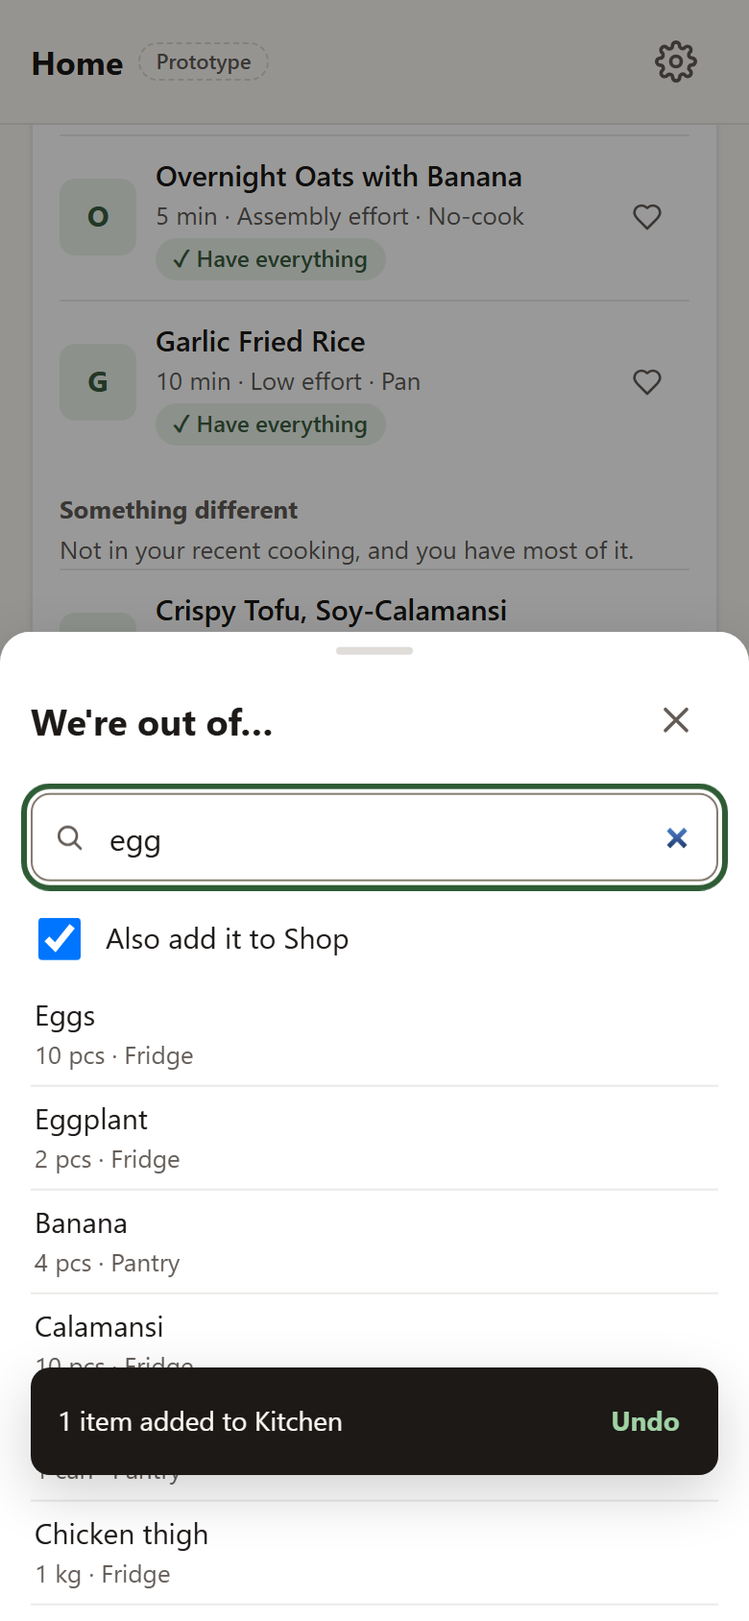
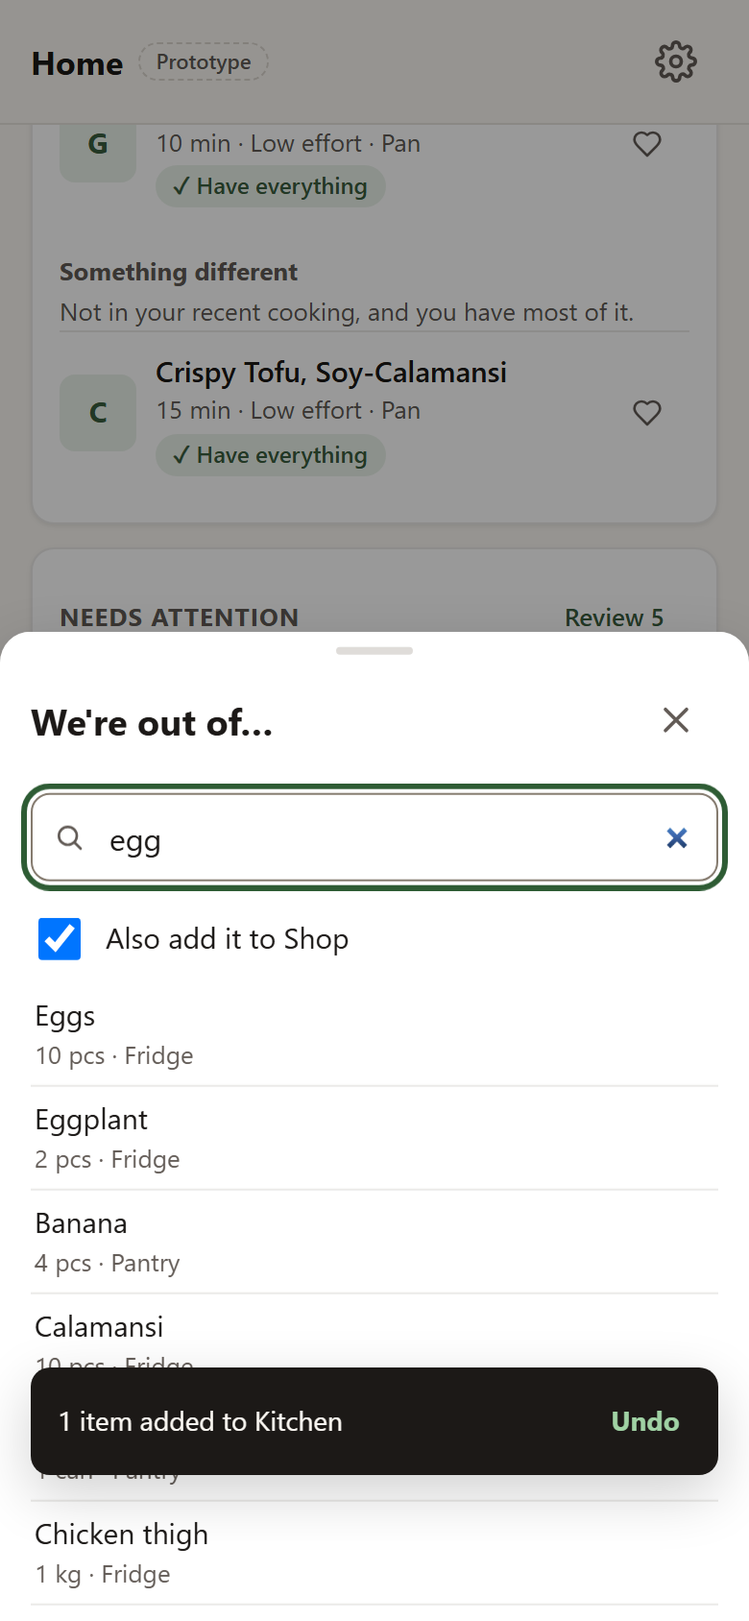
fix(ux-proto): copy app semantics for Keep, attention tiers, batch Done, Made it, matcher
Semantic re-check must-fixes:
- Keep never makes expired food available: haveLot() -> lotAvailable() ignores kept,
  as pantryLotAvailable() ignores keptOn (Mung Bean Stew still needs a kept Pechay)
- Attention lists follow collectAttentionItems(): Expired -> Keep/Remove,
  Check -> Still good/Toss, Use soon -> no keep button and never hidden;
  sample Check item (Radish, fridge estimate passed) with "Check Radish first"
- Prep-day Done shows the take-out list and deducts like I cooked this
  (completePlannedBatch -> _doMarkCooked), with Undo

Should-fixes: Made it on an existing batch says "Replaces your 3 cups (2d left)"
(D-074 replace-in-place); app matcher pasted verbatim with an empty alias table;
deduction per ingredient line; "2 bunches". AUDIT §2/§3/§5/§8/§9 corrected, new §10
records the Soy-Calamansi sauce / Soy sauce false positive as an app finding.
Self-test: 24/24 jobs at 390 and 360, light and dark.

diff --git a/prototypes/ux-consolidation/selftest.js b/prototypes/ux-consolidation/selftest.js
@@ -162,7 +162,11 @@ function measure() {
       await expectText(page.locator('#prep-count'), /^1 of \d+ steps done$/);
       await snap('prep-day'); await shot('proto-05-prep-day');
       await btn(/^Done: \d+ portions to Kitchen/, false).first().click();
-      await expectText(page.locator('#toast-msg'), /portions in Kitchen/);
+      await expectText(sheet, /Its ingredients are deducted from what you have on hand/);
+      await expectText(sheet, /Mung beans: use 250 g · 250 g left/);
+      await snap('batch-done-sheet'); await shot('proto-23-batch-done');
+      await btn('Prepped — add to Kitchen').click();
+      await expectText(page.locator('#toast-msg'), /portions in Kitchen · \d+ reduced/);
       await closeSheet();
     });
 
@@ -370,7 +374,7 @@ function measure() {
       await btn(/expired ·/, false).click();
       await expectText(page.locator('main'), /Pechay[\s\S]*past its printed use-by/);
       await btn('Keep Pechay').click();
-      await expectText(page.locator('#toast-msg'), /Pechay kept for today · date unchanged/);
+      await expectText(page.locator('#toast-msg'), /Pechay kept for today · still not counted as stock/);
       if (await page.locator('main .row', { hasText: 'Pechay' }).count()) throw new Error('kept item still in review');
       await btn('Show all').click();
       await btn(/^Ingredients/, false).click();
@@ -397,6 +401,87 @@ function measure() {
       await page.getByRole('button', { name: 'Settings, sync and backups' }).click();
       await expectText(sheet, /Clear all data/);
       await closeSheet();
+    });
+
+    // ── Repros for the semantic re-check (must-fix 1–3) and should-fixes ──
+    await job('20 Keep never makes expired food available (Mung Bean Stew still needs Pechay)', 3, async () => {
+      await nav('Kitchen').click();
+      await btn(/expired ·/, false).click();
+      await btn('Keep Pechay').click();
+      await nav('Cook').click(); await btn('All recipes').click();
+      await expectText(page.locator('#recipe-browser .row', { hasText: 'Mung Bean Stew' }), /Need \d: [^…]*Pechay/); // Garlic may also be out after job 16
+      await page.locator('#recipe-browser').getByRole('button', { name: /^Mung Bean Stew/ }).click();
+      await expectText(sheet, /You need: [^.]*Pechay/);
+      await closeSheet();
+      await nav('Shop').click();
+      await expectText(page.locator('main'), /Pechay/);
+      await nav('Kitchen').click(); await btn('Show all').click();
+    });
+
+    await job('21 Attention tiers: Use soon has no Still good; Check has Still good', 2, async () => {
+      await nav('Kitchen').click();
+      if (await btn('Show all').count()) await btn('Show all').click();
+      await btn(/to check/, false).click();
+      const chicken = page.locator('main .row', { hasText: 'Chicken thigh' });
+      await expectText(chicken, /1d left/);
+      if (await chicken.getByRole('button', { name: /still good|^Keep/i }).count()) throw new Error('use-soon row offers Keep/Still good');
+      const radish = page.locator('main .row', { hasText: 'Radish' });
+      await expectText(radish, /estimated window passed — check it/);
+      if (await radish.getByRole('button', { name: 'Keep Radish' }).count()) throw new Error('check row says Keep');
+      await snap('kitchen-review-tiers'); await shot('proto-24-attention-tiers');
+      await nav('Cook').click(); await btn('All recipes').click();
+      await expectText(page.locator('#recipe-browser .row', { hasText: 'Pork & Tamarind Sour Soup' }), /Check Radish first/);
+      await nav('Kitchen').click(); // the review filter is still on
+      await btn('Radish is still good').click();
+      await expectText(page.locator('#toast-msg'), /Radish marked still good for today · date unchanged/);
+      if (await page.locator('main .row', { hasText: 'Radish' }).count()) throw new Error('still-good item still in review');
+      if (!(await page.locator('main .row', { hasText: 'Chicken thigh' }).count())) throw new Error('use-soon row disappeared');
+      await nav('Cook').click(); await btn('All recipes').click();
+      const soup = await page.locator('#recipe-browser .row', { hasText: 'Pork & Tamarind Sour Soup' }).textContent();
+      if (/Check Radish first/.test(soup)) throw new Error('check note survived Still good');
+      await page.locator('#toast-undo').click();
+      await nav('Kitchen').click(); await btn('Show all').click();
+    });
+
+    await job('22 Meal prep Done deducts like I cooked this (and Undo restores)', 3, async () => {
+      await nav('Cook').click(); await btn('Meal prep').click();
+      await btn('Start prep day').click();
+      const idx = await page.evaluate(() => S.plan.findIndex(b => b.rid === 'r5'));
+      await sheet.locator('[data-act="batch-done"]').nth(idx).click();
+      await expectText(sheet, /Rice Cooker Chicken & Rice — \d+ servings goes into your Kitchen/);
+      await expectText(sheet, /Chicken thigh: use [\d.½¼¾⅓⅔]+ kg · [\d.½¼¾⅓⅔]+ kg left/);
+      await expectText(sheet, /Staples are never deducted: Rice/);
+      await btn('Prepped — add to Kitchen').click();
+      await expectText(page.locator('#toast-msg'), /Rice Cooker Chicken & Rice: \d+ portions in Kitchen · 1 reduced/);
+      await closeSheet();
+      await nav('Kitchen').click();
+      await page.getByLabel('Search kitchen').fill('chicken thigh');
+      const after = await page.locator('main .row', { hasText: 'Chicken thigh' }).textContent();
+      if (/\b1 kg/.test(after)) throw new Error('chicken not deducted: ' + after.replace(/\s+/g, ' '));
+      await page.locator('#toast-undo').click();
+      await expectText(page.locator('main'), /Chicken thigh\s*1 kg/);
+      await page.getByLabel('Search kitchen').fill('');
+    });
+
+    await job('23 Made it says what happens to the existing batch', 3, async () => {
+      await nav('Cook').click(); await btn('Sauces & prep').click();
+      await btn('Prep-aheads ↓ (cooked rice, garlic…)').click();
+      await btn('Made Cooked rice').click();
+      await expectText(page.locator('#replace-note'), /Replaces your [23] cups \(2d left\)/);
+      await snap('made-replace'); await shot('proto-25-made-replace');
+      await btn('Replace batch').click();
+      await expectText(page.locator('#toast-msg'), /Replaced Cooked rice — [23] cups/);
+      await page.locator('#toast-undo').click();
+      await btn('Made a batch of Soy-Calamansi').click();
+      await expectText(page.locator('#replace-note'), /Replaces your 4 portions \(5d left\)/);
+      await closeSheet();
+    });
+
+    await job('24 Matcher is the app\'s, verbatim (incl. its Soy-Calamansi false positive)', 0, async () => {
+      const got = await page.evaluate(() => [['Garlic cloves', 'Garlic'], ['Onion, chopped', 'Onion'], ['Bay leaves', 'Bay leaf'], ['Rice', 'Sticky rice'], ['Soy-Calamansi sauce', 'Soy sauce'], ['Eggs', 'Egg noodles'], ['Rice', 'Rice vinegar']]
+        .map(([a, b]) => a + '|' + b + '=' + nameMatch(a, b)).join(' ') + ' ' + amtText(2, 'bunch') + '/' + amtText(1, 'bunches'));
+      const want = 'Garlic cloves|Garlic=true Onion, chopped|Onion=true Bay leaves|Bay leaf=true Rice|Sticky rice=false Soy-Calamansi sauce|Soy sauce=true Eggs|Egg noodles=false Rice|Rice vinegar=false 2 bunches/1 bunch';
+      if (got !== want) throw new Error(got);
     });
 
     // Extra screens for measurement only.

diff --git a/prototypes/ux-consolidation/index.html b/prototypes/ux-consolidation/index.html
@@ -1006,7 +1006,7 @@ function renderKitchen() {
   let body = '';
   const match = x => !q || x.name.toLowerCase().includes(q);
   if (S.kfilter === 'soon') {
-    body = `<div class="card"><h3>Expired or use soon <button class="btn ghost sm more" data-act="kfilter" data-v="">Show all</button></h3>
+    body = `<div class="card"><h3>Needs attention <button class="btn ghost sm more" data-act="kfilter" data-v="">Show all</button></h3>
       <p class="row-meta" style="margin:0 0 4px">Keep (expired) and Still good (check it) hide an item until tomorrow. They never change its date, and expired food still never counts as stock.</p>
       ${att.map(attentionRow).join('') || '<div class="empty">Nothing needs attention today.</div>'}</div>`;
   } else if (q) {

diff --git a/prototypes/ux-consolidation/AUDIT.md b/prototypes/ux-consolidation/AUDIT.md
@@ -47,20 +47,21 @@ Other observations:
 ## 2. Everyday jobs: current app vs prototype
 
 Taps exclude typing. "Before" is measured or traced on `origin/main`. "After" is the prototype
-self-test (Playwright clicks by visible label, as a first-time user). All 19 scripted jobs (the 8 below,
+self-test (Playwright clicks by visible label, as a first-time user). All 24 scripted jobs (the 8 below,
 plus Flavor authoring, Favorites, method chips and filters, undo isolation, the serving scaler, Cook
-history, Remove expired, "Not anymore?", Keep, D-086 matching and the new homes) pass at 390×844 and
-360×780, in light and dark. Each run had 0 console errors, 0 network requests and no horizontal scroll.
-Full numbers are in §8; the data-semantics fixes from the second review are in §9.
+history, Remove expired, "Not anymore?", Keep, D-086 matching, the new homes, and five repros for the
+semantic re-check) pass at 390×844 and 360×780, in light and dark. Each run had 0 console errors,
+0 network requests and no horizontal scroll. Full numbers are in §8; the data-semantics fixes are in §9
+(second review) and §10 (semantic re-check).
 
 | Job | Current app (before) | Prototype (after) |
 |---|---|---|
 | What can I eat now | Home → **Use 1** (1 tap; first button 0.59 screens down, under the meal-prep flow card and banner) | Home → **Eat 1** (**1 tap**; first card, about 0.25 screens) |
 | Cook something quick | More → Recipes → scroll about 1 screen → Lowest effort → scroll 1.2-screen cards → no cook action. Logging it needs Plan → + Add meals → pick → close → Prep → Prepped → Fridge → confirm (**about 10 taps, 3+ screens**) | Cook (opens on Quick cook, can-make-now first) → recipe → **I cooked this** → Save (**4 taps, no scroll**). The sheet shows what it will take out of the kitchen, `markRecipeCooked()`-style: "Canned tuna: use 1 can · 1 can left". Staples are never deducted, and an untracked amount is never removed unless you tick it (§9) |
-| Plan a meal-prep batch | Plan → + Add meals → pick → close (4), then Prep tab → **Prepped → Fridge** per batch (+2 each, 3 tabs total) | Home's **Meal prep** card → + Add → pick → Done (**4**; 5 if you start from the Cook tab). The picker lists every recipe, with optional search, a **Low effort only** chip and **View** on each row (D-078). Then Start prep day → **Done: N portions to Kitchen** (+2). All on one screen, with a 1-2-3-4 progress strip, a live "N of M steps done" count and a "N to buy → Open Shop" link |
+| Plan a meal-prep batch | Plan → + Add meals → pick → close (4), then Prep tab → **Prepped → Fridge** per batch (+2 each, 3 tabs total) | Home's **Meal prep** card → + Add → pick → Done (**4**; 5 if you start from the Cook tab). The picker lists every recipe, with optional search, a **Low effort only** chip and **View** on each row (D-078). Then Start prep day → **Done: N portions to Kitchen** → **Prepped — add to Kitchen** (+3). Done asks once, like the app's `completePlannedBatch()` confirm, and shows the same take-out list as *I cooked this* ("Mung beans: use 250 g · 250 g left"); confirming deducts the ingredients and adds the portions to Ready food, with Undo. All on one screen, with a 1-2-3-4 progress strip, a live "N of M steps done" count and a "N to buy → Open Shop" link |
 | I just shopped | Shop → scroll past struck-through in-stock rows → tick each (1 + n). Unlisted purchases: Fridge → scroll 1.9 screens → Bulk add → type → Add (4) | Shop → tick each (**1 + n**; only items to buy are shown, with amounts and Price book costs). Unlisted: **Bought something else?**, which sits right under the add box at the top of Shop → type → Add to Kitchen (**3**). A tick can be undone from the toast, or later from the collapsed **Bought today** section, which reverses exactly what the tick did (D-057 receipt) |
 | We're out of X | Fridge → scroll → search → open → level/delete → Shop → Add Item → type → save (**about 7**, 2 tabs) | Kitchen (or Home) → **We're out of…** → type → tap item (**3**). Results rank whole-word matches first, then starts-with, then contains, so "egg" lists **Eggs** before Eggplant. It is marked out and added to Shop in one step (checkbox on by default), with Undo |
-| Make a sauce / prepped ingredient | More → Flavor Library → scroll → I made this → save (**4**). Prepped ingredients are **not possible** | Cook → Sauces & prep → **Made it** → Save to Kitchen (**4**). The same path works for prep-aheads (cooked rice, minced garlic, boiled eggs), which a **Prep-aheads ↓** link at the top of the screen jumps to. "Use by" is optional and typed by you; with no date, no "days left" chip is shown (D-074) |
+| Make a sauce / prepped ingredient | More → Flavor Library → scroll → I made this → save (**4**). Prepped ingredients are **not possible** | Cook → Sauces & prep → **Made it** → Save to Kitchen (**4**). The same path works for prep-aheads (cooked rice, minced garlic, boiled eggs), which a **Prep-aheads ↓** link at the top of the screen jumps to. "Use by" is optional and typed by you; with no date, no "days left" chip is shown (D-074). If you already have a batch, the sheet is titled "Replace … batch?", says **Replaces your 3 cups (2d left)** before you save, and the button reads **Replace batch** (D-074 replace-in-place, so old food never quietly looks fresh) |
 | Find a flavor | More → Flavor Library → search/filter (**3**) | Cook → type in the one search box, which searches recipes, sauces and ingredients (**1 + typing**), or tap a sauce chip on a ready-food row or recipe ("Goes well with") |
 | Shop without a plan | Shop → open "No plan? Fill the gaps" → tap a chip (**3**) | Shop → tap a chip (**2**; quick picks open automatically while the list is short, and no item appears in two roles). "Running low: Vinegar, Oats → Add" is a one-tap restock |
 | Add / edit / delete a flavor | More → Flavor Library → Add flavor → fill → Save (**4**) | Cook → Sauces & prep → **+ Add your own flavor** → fill → Save flavor (**4**). Edit and Delete sit in each flavor's sheet. Delete asks first, then gives Undo |
@@ -75,7 +76,7 @@ Full numbers are in §8; the data-semantics fixes from the second review are in 
 |---|---|
 | Home: greeting, Ready to eat | **Home** · Ready to eat (first card) |
 | Home: meal-prep flow card (Plan/Shop/Prep/Fridge) | **Home** · "Meal prep" mode card with a one-line status. The full flow lives in **Cook › Meal prep** |
-| Home: What needs attention? | **Home** · "Use soon" (2 items). Expired rows offer **Keep** or **Remove** (FEATURES, D-057); use-soon rows offer *Cook*. **Kitchen › Review** lists them all; use-soon rows there have **Still good**. Keep and Still good are the same-day `keptOn` acknowledgement (D-088): the item is hidden from alerts until tomorrow and its date is never rewritten. Kitchen keeps showing "Expired · Kept today" on the item itself |
+| Home: What needs attention? | **Home** · "Needs attention" (first 3) and **Kitchen › Review** (all), with the app's three tiers from `collectAttentionItems()` and the app's buttons (`check ? 'Still good' : 'Keep'`). **Expired** (printed use-by passed, or ready food past its fridge window): **Keep** / **Remove**. **Check** (a fridge perishable past its *estimate*, a passed best-before, or frozen food past its quality window): **Still good** / **Toss**. **Use soon**: no keep button at all, only *Cook* with a recipe that uses it; the app never hides a use-soon row, so neither does the prototype. Keep and Still good write the same-day `keptOn` (D-057, D-088): the row leaves the list until tomorrow and the date is never rewritten. **Keep never makes expired food usable**: `pantryLotAvailable()` ignores `keptOn`, so a kept expired lot still is not "have", is never suggested and is never offered in *I cooked this*; Kitchen shows "Expired · Kept today". Still good on a Check lot clears the recipe's "Check X first" note for today. Prepared stock is not in this list, as in the app |
 | Home: Record leftovers/takeout | **Home** quick action, plus **Kitchen** › Ready |
 | Home: My Favorites (`#home-favorites`) | Hearts on every recipe row, plus a **♥ Favorites** chip in **Cook** (Quick cook and All recipes). It shows only hearted recipes, with a count, and is ANDed with the method chip and Filters. Recipes' `#favorites-filter` checkbox maps to the same chip |
 | Home: Need ideas? (What should we eat / cook / can I do) | **Home** · "Or make something" (Instant / Quick / Meal prep, plus "You can make right now") |
@@ -144,7 +145,7 @@ Full numbers are in §8; the data-semantics fixes from the second review are in 
   4. **Prepared ingredients get a first-class home** next to sauces (Kitchen › Prepped). They are
      created from Cook › Sauces & prep › *Made it* and consumed by recipes ("✓ Cooked rice").
   5. **Home is a decision page, not a dashboard.** It has three blocks (Ready to eat → Or make
-     something → Use soon) and three quick actions (We're out of… · I just shopped · Leftovers). The
+     something → Needs attention) and three quick actions (We're out of… · I just shopped · Leftovers). The
      meal-prep flow card, Favorites, Need ideas and Cook History move off it (to Cook › Meal prep, the
      Cook ♥ Favorites chip, can-make-now sorting and Settings › Cook history).
 
@@ -164,7 +165,7 @@ never editing.
 - **Added:** Cook, Kitchen, the ⚙ header button and bottom navigation.
 - **Merged:** Plan + Prep + the Home flow card → Cook › Meal prep. "Based on your kitchen" strip +
   quick filters + Need ideas → can-make-now sorting in Cook and Home. Freshness banner + attention
-  card → Kitchen badge + Review bar + Home "Use soon". Prepared Flavors (two places) → Kitchen ›
+  card → Kitchen badge + Review bar + Home "Needs attention". Prepared Flavors (two places) → Kitchen ›
   Prepped.
 - **Demoted behind one tap:** By-day grid, week templates, AI Prep Brief, Stock health,
   Inventory-checked stamp, select mode, ingredient browser, print/copy/clear, prices, JSON
@@ -181,7 +182,7 @@ never editing.
 4. **Muscle memory and deep links.** `showTab('fridge'|'planner'|'prep'|'recipes')`, the notification click (`show-attention` → `openAttentionView()`), and tests that select `.tab-btn[data-tab=…]` all assume today's ids. Keep the `data-tab` ids as internal section ids and remap the nav only, so existing specs and the service-worker route keep working.
 5. **Dark mode.** The released app is deliberately **light-only** (`color-scheme: light`; ROADMAP "Do Not Work On" lists a manual toggle). The prototype honours `prefers-color-scheme` as asked. Shipping that is a separate product decision, and Hard Rule 7 (single `:root`) still applies.
 6. **Discoverability of demoted tools.** People who use Nutrition, the Price Book or the By-day grid daily lose one tap. Mitigation: Settings rows plus contextual links (recipe sheet → nutrition, Shop ⋯ → prices, Meal prep → By day).
-7. **Matching quality.** "✓ Have everything" is only as good as ingredient matching. The prototype now follows D-086 `ingredientNamesMatch()`: names match when they are equal, or when every word of the shorter name is in the longer one **and** both share the head noun (last word), with the identity-modifier guard, the rice-family rule and "A or B" alternatives. So *Eggs* does not satisfy *Egg noodles*, *Rice* does not satisfy *Rice vinegar*, and *Egg* never matches *Eggplant*. (The first prototype used a plain word-subset test, which let Eggs satisfy Egg noodles and under-counted "Need N".) Two read-path rules from D-086 also apply: an Out staple, an empty lot or a lot past its printed date is not stock, and an untracked amount still counts as "have some". Prepped stock matches only by exact name, so a cooked-rice tub is used for "Cooked rice" lines and never stands in for raw "Rice". Production must keep these read paths on `ingredientNamesMatch()` / `pantryLotAvailable()`. The write path (`findPantryMatch()` in `deductIngredientsForRecipe()`) is still substring-based and is the deferred red-zone task D-086 records; the prototype's "I cooked this" assumes that alignment has happened.
+7. **Matching quality.** "✓ Have everything" is only as good as ingredient matching. The prototype no longer approximates it: `ingredientNamesMatch()` and the helpers it needs (`normalizeIngredientName()`, `ingredientNameSegments()`, `ingredientAlternatives()`, `ingredientMatchWords()`, `hasIngredientIdentityModifier()`, `INGREDIENT_IDENTITY_MODIFIERS`, `WATER_INGREDIENT_LINE`, `QUANTITY_INGREDIENT_NOTE`) are **copied verbatim from `app.js` on `origin/main`**, and recipe lines are matched the way Cook Now does it (`ingredientAlternatives(line).some(n => ingredientNamesMatch(n, lot))`). The only difference is the alias table: the app builds `INGREDIENT_AVAILABILITY_ALIASES` from `INGREDIENT_DB`; the prototype has no ingredient database, so its table is **empty**, and an alias-only match the app makes would be missed here. Pairs re-run against the port (self-test job 24): "Garlic cloves"/"Garlic" **true**, "Onion, chopped"/"Onion" **true**, "Bay leaves"/"Bay leaf" **true**, "Rice"/"Sticky rice" **false** (identity modifier), "Eggs"/"Egg noodles" false, "Rice"/"Rice vinegar" false, and "Soy-Calamansi sauce"/"Soy sauce" **true**, which is an app finding (§10). Availability follows `pantryLotAvailable()`: an Out staple, a lot with amount ≤ 0, or an **expired** lot is not stock (Keep does not change that), an estimate that has passed (Check) still counts, and an untracked amount counts as "have some". The cooked-rice tub is checked first by exact name, but with the app's rice-family rule a "Cooked rice" line is also satisfied by raw Rice when there is no tub. Production must keep these read paths on the real functions. The write path (`findPantryMatch()` in `deductIngredientsForRecipe()`) is still substring-based and is the deferred red-zone task D-086 records; the prototype's "I cooked this" assumes that alignment has happened.
 8. **Size of `app.js`.** Navigation is woven through about 17k lines of imperative `render*()`. A big-bang change is high risk, hence the phased plan below.
 
 ## 6. Phased production plan (smallest first)
@@ -216,7 +217,9 @@ Each phase is independently shippable and reversible, and follows D-001 (no fram
 `proto-15-flavor-editor`, `proto-16-favorites` (with the "1 more favorite over 30 min" note),
 `proto-17-method-empty` (D-060 empty chip), `proto-18-filters`, `proto-19-cooked-deduct` (what
 "I cooked this" takes out), `proto-20-picker` (search + Low effort), `proto-21-bought-today`,
-`proto-22-made-use-by` (optional use-by).
+`proto-22-made-use-by` (optional use-by), `proto-23-batch-done` (what prep-day Done takes out),
+`proto-24-attention-tiers` (Expired / Check / Use soon in Kitchen › Review), `proto-25-made-replace`
+("Replaces your … cups (2d left)").
 
 Note: some prototype screenshots show the toast from the previous step, because the self-test
 captures them mid-flow.
@@ -228,14 +231,14 @@ Method: [`selftest.js`](selftest.js) runs Playwright 1.65 (Chromium) against the
 and accessible names (`getByRole('button', { name })`, `getByLabel`). It runs four configurations:
 390×844 light, 390×844 dark, 360×780 light and 360×780 dark (`colorScheme`). After each step it
 measures every visible element across about 30 screens, sheets and toasts. Raw output:
-[`selftest-results.json`](selftest-results.json). Re-run after the second review on 2026-11-27.
+[`selftest-results.json`](selftest-results.json). Re-run after the semantic re-check on 2026-11-28.
 
 | Config | Jobs | Console errors | Network requests | Horizontal scroll |
 |---|---|---|---|---|
-| 390×844 light | 19/19 pass | 0 | 0 | none |
-| 390×844 dark | 19/19 pass | 0 | 0 | none |
-| 360×780 light | 19/19 pass | 0 | 0 | none |
-| 360×780 dark | 19/19 pass | 0 | 0 | none |
+| 390×844 light | 24/24 pass | 0 | 0 | none |
+| 390×844 dark | 24/24 pass | 0 | 0 | none |
+| 360×780 light | 24/24 pass | 0 | 0 | none |
+| 360×780 dark | 24/24 pass | 0 | 0 | none |
 
 The jobs are the 8 everyday jobs in §2, plus: (9) Flavor authoring (empty-name error, add, edit,
 delete, Undo, Freezer-friendly filter, starter prompt that never re-offers a deleted starter and
@@ -247,6 +250,19 @@ history; (15) Kitchen ⋯ Remove expired (1) + Undo; (16) Shop "Not anymore?"; (
 item (hidden from Review today, still "Expired · Kept today" in Kitchen) + Undo; (18) D-086 matching
 (Stir-Fried Noodles shows "Need 3: Egg noodles, Cabbage…" although Eggs are at home); (19) the new homes
 (Home "Something different", the recipe-sheet balance line, Settings › Clear all data).
+
+Semantic re-check repros (§10): (20) **Keep Pechay** (expired, printed use-by), then Mung Bean Stew
+still says "Need …: Pechay", its sheet still lists Pechay under "You need", and Pechay is still on
+Shop; (21) **attention tiers**: Chicken thigh (1d left, Use soon) has no Keep or Still good button;
+Radish (fridge, estimate passed, no printed date) is Check with **Still good** / **Toss**, and Pork &
+Tamarind Sour Soup says "Check Radish first"; Still good hides Radish, keeps Chicken thigh listed and
+clears the note; (22) **meal prep Done deducts**: Rice Cooker Chicken & Rice → Done → the sheet lists
+"Chicken thigh: use … kg · … kg left" and "Staples are never deducted: Rice…" → confirm → the toast
+says "1 reduced", Kitchen shows less chicken, Undo restores 1 kg; (23) **Made it on an existing
+batch**: Cooked rice says "Replaces your N cups (2d left)" and saves as "Replaced Cooked rice — …";
+Soy-Calamansi says "Replaces your 4 portions (5d left)"; (24) the matcher pairs in §5 risk 7 and the
+Shop pluralisation (`2 bunches`, `1 bunch`). Job 3 also now confirms the batch-done sheet ("Mung
+beans: use 250 g · 250 g left", "Its ingredients are deducted…") before the portions reach Kitchen.
 
 Jobs 2, 3, 4, 6, 10 and 11 also gained checks for the second-review fixes: the cook sheet's deductions
 (tuna 2 → 1 can, cooked rice 3 → 2 cups, untracked Cucumber unticked and still in Kitchen afterwards,
@@ -261,10 +277,10 @@ held to 4.5:1, with no large-text allowance):
 
 | Config | Text samples | Lowest text ratio | Text < 4.5 |
 |---|---|---|---|
-| 390×844 light | 1,966 | 4.65 (primary button text) | 0 |
-| 390×844 dark | 1,966 | 4.80 (recipe initial tile) | 0 |
-| 360×780 light | 1,940 | 4.65 | 0 |
-| 360×780 dark | 1,940 | 4.80 | 0 |
+| 390×844 light | 2,129 | 4.65 (primary button text) | 0 |
+| 390×844 dark | 2,129 | 4.80 (recipe initial tile) | 0 |
+| 360×780 light | 2,094 | 4.65 | 0 |
+| 360×780 dark | 2,094 | 4.80 | 0 |
 
 **Non-text UI contrast** (WCAG 1.4.11, held to 3:1). The self-test now measures five kinds of element.
 The **focus ring** is the `--focus` outline that sits 2px outside every visible button, input, select,
@@ -276,13 +292,13 @@ and **badge** are as before.
 
 | Kind | Samples (390 light) | Lowest, light | Lowest, dark | Before this round (light / dark) |
 |---|---|---|---|---|
-| Focus ring | 1,025 | 6.88 | 5.07 | 1.48 / 2.01 (45% alpha green) |
+| Focus ring | 1,116 | 6.88 | 5.07 | 1.48 / 2.01 (45% alpha green) |
 | Selected chip fill | 33 | 6.89 | 6.31 | 2.56 / 6.31 |
-| Control border | 40 | 3.88 (search box) | 3.76 (search box) | 1.36 / 1.94 (20% / 22% alpha) |
+| Control border | 47 | 3.88 (search box) | 3.76 (search box) | 1.36 / 1.94 (20% / 22% alpha) |
 | Checkbox | 11 | 6.67 | 6.92 | unchanged |
-| Nav badge | 56 | 6.61 | 5.30 | unchanged |
+| Nav badge | 62 | 6.61 | 5.30 | unchanged |
 
-0 UI samples are below 3:1 in any of the four configs (1,165 / 1,165 / 1,148 / 1,148 samples). The
+0 UI samples are below 3:1 in any of the four configs (1,269 / 1,269 / 1,246 / 1,246 samples). The
 360px runs give the same lowest values.
 
 Token changes behind this (prototype only; production `style.css` is untouched):
@@ -310,10 +326,10 @@ checkbox label):
 
 | Config | Targets measured | Smallest | Below 44 px |
 |---|---|---|---|
-| 390×844 light | 1,025 | 44×44 (icon buttons) | 0 |
-| 390×844 dark | 1,025 | 44×44 | 0 |
-| 360×780 light | 1,010 | 44×44 | 0 |
-| 360×780 dark | 1,010 | 44×44 | 0 |
+| 390×844 light | 1,116 | 44×44 (icon buttons) | 0 |
+| 390×844 dark | 1,116 | 44×44 | 0 |
+| 360×780 light | 1,095 | 44×44 | 0 |
+| 360×780 dark | 1,095 | 44×44 | 0 |
 
 `.btn.sm`, mode, method and flavor-filter chips, the stock-level chip (`.lvl`, min 60×44), steppers,
 hearts and ✕ buttons, the Shop checkbox (a 44×44 `.check-btn` around the 26px box) and toast Undo
@@ -337,7 +353,7 @@ by the self-test (§8).
 |---|---|---|---|
 | 1 | "I cooked this" deleted whole records | The sheet lists what it will **take out**, scaled by the servings made: "Canned tuna: use 1 can · 1 can left", "Cooked rice: use 1 cup · 2 cups left". A lot is removed only when it reaches zero ("that uses it up, so it is removed"). Staples are listed as "never deducted". A matched lot with **no tracked amount**, or with a unit that does not convert, goes under "Amount not tracked", **unticked**, and stays in the kitchen unless you tick "Used it all up?". Undo restores every amount | `markRecipeCooked()` → `deductIngredientsForRecipe()`: skips staples, skips null-quantity lots, converts units, subtracts, and tombstones only lots that hit zero (D-057 addendum). The explicit "used it all up" tick is a prototype addition; in production it would route through the existing single-item removal, never a new delete path |
 | 2 | Matching too loose | D-086 head-noun matching (§5 risk 7). "Need N" counts changed accordingly, e.g. Stir-Fried Noodles is now "Need 3: Egg noodles, Cabbage…" although Eggs are at home | `ingredientNamesMatch()`, `pantryLotAvailable()` |
-| 3a | "Still good" rewrote the date | **Keep** / **Still good** set a same-day `kept` flag. The item leaves Home "Use soon", Kitchen Review, the Kitchen badge and **Remove expired** for today; its date is untouched and Kitchen still shows "Expired · Kept today" | D-057 / D-088 `keptOn`, `isKeptToday()` |
+| 3a | "Still good" rewrote the date | *Corrected in §10.* **Keep** (Expired rows) and **Still good** (Check rows only) set a same-day `kept` flag. The row leaves Home "Needs attention", Kitchen Review and **Remove expired** for today; its date is untouched and Kitchen still shows "Expired · Kept today". Use-soon rows have neither button and are never hidden. Keep does **not** make an expired lot count as stock. (This row first said Keep/Still good applied to use-soon rows and, through `haveLot()`, made kept food available; both were wrong) | D-057 / D-088 `keptOn`, `isKeptToday()`; `collectAttentionItems()` skips kept only when the signal is not use-soon; `pantryLotAvailable()` ignores `keptOn` |
 | 3b | Expired rows offered only Toss | Expired rows (Home and Kitchen Review) offer **Keep** or **Remove**, and say "past its printed use-by" | FEATURES Home attention: Keep / Remove per row, bulk Remove expired |
 | 3c | "Made it" inferred a sauce expiry | **Use by (optional)** date field. Blank means no date and no "Nd left" chip ("no use-by date" in Kitchen › Prepped). A new batch of the same flavor replaces the record in place (same id) | D-074: `preparedFlavors` has no inferred shelf life; one active batch per `flavorId` |
 | 4 | A tick could only be reversed while the toast showed | Ticked rows move to a collapsed **Bought today (N)** section with their receipt. **Untick** reverses exactly that receipt (new lot removed, staple level restored, merged amount restored) and puts the row back on the list | D-057 `stockPurchasedGroceryItem()` / `unstockPurchasedGroceryItem()` receipts: created / staple / merged |
@@ -350,6 +366,42 @@ by the self-test (§8).
 | 8b | Prep-aheads "Made it" below the fold | **Prep-aheads ↓** jump link at the top of Sauces & prep; it scrolls and moves focus | — |
 | 8c | Method chip carried across modes | Switching between Quick cook and All recipes resets the chip to **All** | — |
 
-Still out of scope for the prototype, and noted for the proposal: the D-088 **Check** tier (an
-estimated date that has passed) would reuse the same row with Still good / Toss, and is never
-bulk-removed. The prototype's only past-date sample, Pechay, has a printed use-by, so it is Expired.
+The D-088 **Check** tier is now modelled (§10): Radish, a fridge lot past its estimate with no printed
+date, is Check with Still good / Toss and is never bulk-removed. Pechay (printed use-by) stays Expired.
+
+## 10. Semantic re-check: model the app, do not approximate it (2026-11-28)
+
+An independent re-check failed the prototype on semantics: production will copy it, so it must do what
+`origin/main` does. Each fix below is copied from `app.js` and has a self-test repro (§8, jobs 20–24).
+
+| # | Finding | Fix in the prototype | App code it now copies |
+|---|---|---|---|
+| M1 | **Keep made expired food available.** `haveLot()` had `\|\| i.kept`, so after Keep Pechay, Mung Bean Stew stopped needing Pechay and *I cooked this* offered to deduct it | `haveLot()` → `lotAvailable()`, which never reads `kept`. A kept expired lot is never "have", never recommended, never in the take-out list, and stays on Shop. Its sheet says "it still does not count" (job 20) | `pantryLotAvailable()` ignores `keptOn`; `keepAttentionItem()` only writes `keptOn` |
+| M2 | **Attention lists did not match the app.** Use-soon rows offered Still good and hid when tapped; there was no Check tier | One `dateSignal()` (Expired / Check / Use soon) and one `attentionRow()`: Expired → Keep / Remove, Check → Still good / Toss, Use soon → no keep button and never hidden. A sample Check item, **Radish** (fridge, estimate passed, no printed date), shows "estimated window passed — check it", still counts as stock, and puts "Check Radish first" on Pork & Tamarind Sour Soup until Still good (job 21). The Kitchen bar reads "1 expired · 1 to check · 4 use soon" | `collectAttentionItems()` (`signal.kind !== 'use-soon' && isKeptToday(rec)`), `pantryDateSignal()`, `cookedDateSignal()`, `attentionActionRow()` (`check ? 'Still good' : 'Keep'`, `check ? 'Toss' : 'Remove'`), `lotNeedsCheck()` |
+| M3 | **Prep-day Done did not deduct ingredients** | Done opens **Move to Kitchen?** with the same take-out list as *I cooked this* (tracked amounts ticked, untracked unticked, staples never), and **Prepped — add to Kitchen** deducts, adds the servings as portions and logs history, all in one Undo (jobs 3, 22). Tap count is now +3 (§2) | `completePlannedBatch()` confirm → `completePlannedBatchNow()` → `_doMarkCooked()` → `deductIngredientsForRecipe()` |
+| S1 | **Made it on an existing batch was silent** | The sheet is titled "Replace … batch?", says **Replaces your 3 cups (2d left)** (or "no use-by date"), defaults to the existing amount and place, and the button is **Replace batch**; the toast says "Replaced …" (job 23). The batch is replaced, never merged, so the new date never makes old food look fresh | `openPrepareFlavorDialog()` ("You have N left (Fridge). Saving replaces it with a new batch.", "Replace"), `savePreparedFlavor()`, `findPreparedFlavorByFlavorId()` (D-074) |
+| S2 | **Matcher was a re-implementation** | The app's matcher is pasted verbatim with an empty alias table (§5 risk 7; job 24) | `ingredientNamesMatch()` and helpers |
+| S3 | **Deduction ran once per lot** (a `seen` set in `cookPlan()`) | `cookPlan()` walks the ingredient **lines**; two lines on the same lot both deduct, each from what the previous line left | `deductIngredientsForRecipe()` (`ingredients.forEach`, no per-lot dedupe) |
+| N1 | Shop said "2 bunch" | Count units agree with the amount: "1 bunch", "2 bunches", "1 can", "2 cans"; g, kg, ml, L, tbsp and tsp never change | — |
+
+**App finding (not fixed; the app is out of scope here).** `ingredientNamesMatch('Soy-Calamansi sauce',
+'Soy sauce')` is **true** on `origin/main`: the hyphen splits into the words soy · calamansi · sauce, the
+shorter name's words (soy, sauce) are all present, the head noun (sauce) is shared, and "calamansi" is
+not in `INGREDIENT_IDENTITY_MODIFIERS`. So a recipe that needs a made sauce counts plain soy sauce as
+"have" — a likely false positive. The prototype shows it honestly: with no Soy-Calamansi batch in the
+kitchen, Crispy Tofu, Soy-Calamansi still reads "✓ Have everything" through the Soy sauce staple. A fix
+belongs in its own reviewed app task (for example, treating a compound hyphenated modifier as identity).
+
+**Where the prototype still differs from the app, on purpose and labelled in the code:**
+
+- *Prep-aheads* (cooked rice, minced garlic…) have no record type in the app. The prototype gives them
+  the prepared-flavor shape (one batch per item, replaced in place, optional user-typed use-by). A
+  production build needs an owner decision on where they live.
+- *Prepared stock in "have"*: the app's Cook Now reads pantry lots only. The prototype also lets a
+  prepped batch satisfy a line by exact name ("Cooked rice", "Soy-Calamansi sauce"), and a batch past
+  the use-by you typed does not count. Prepared stock is **not** in the attention lists, matching
+  `collectAttentionItems()`, which scans pantry and cooked meals only.
+- *Untracked amounts in the take-out list* are shown unticked with "Used it all up?"; the app simply
+  skips them. Unticked is the app's behaviour; the tick is an addition (§9 #1).
+- *Sample data has no bought dates*, so the D-089 fridge safety limits (raw meat, poultry and seafood
+  2–3 days from purchase) are not modelled. Chicken thigh is shown at 1d left, inside its limit.
